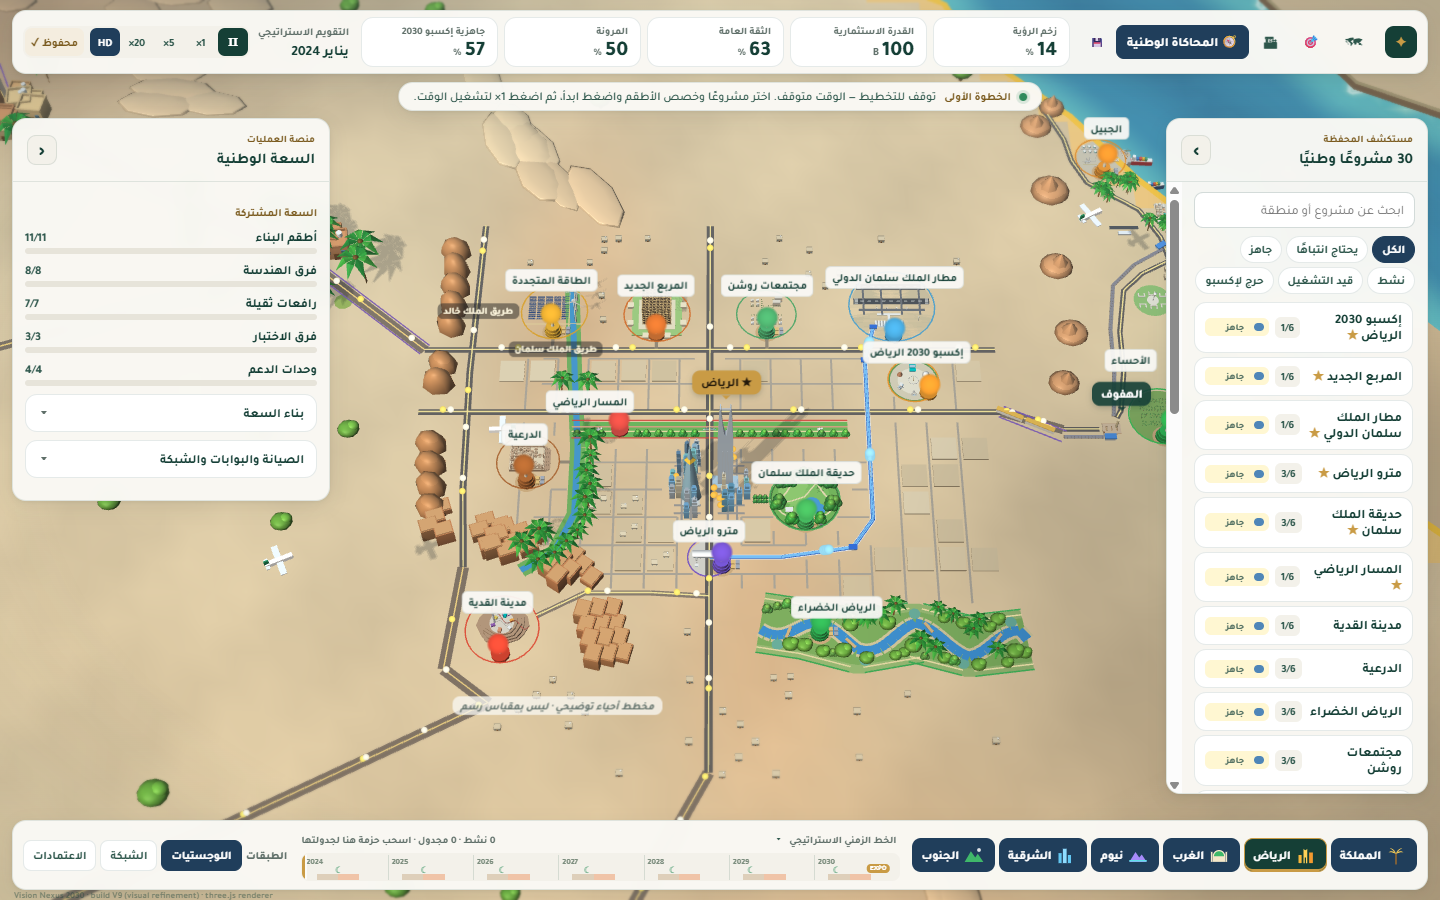
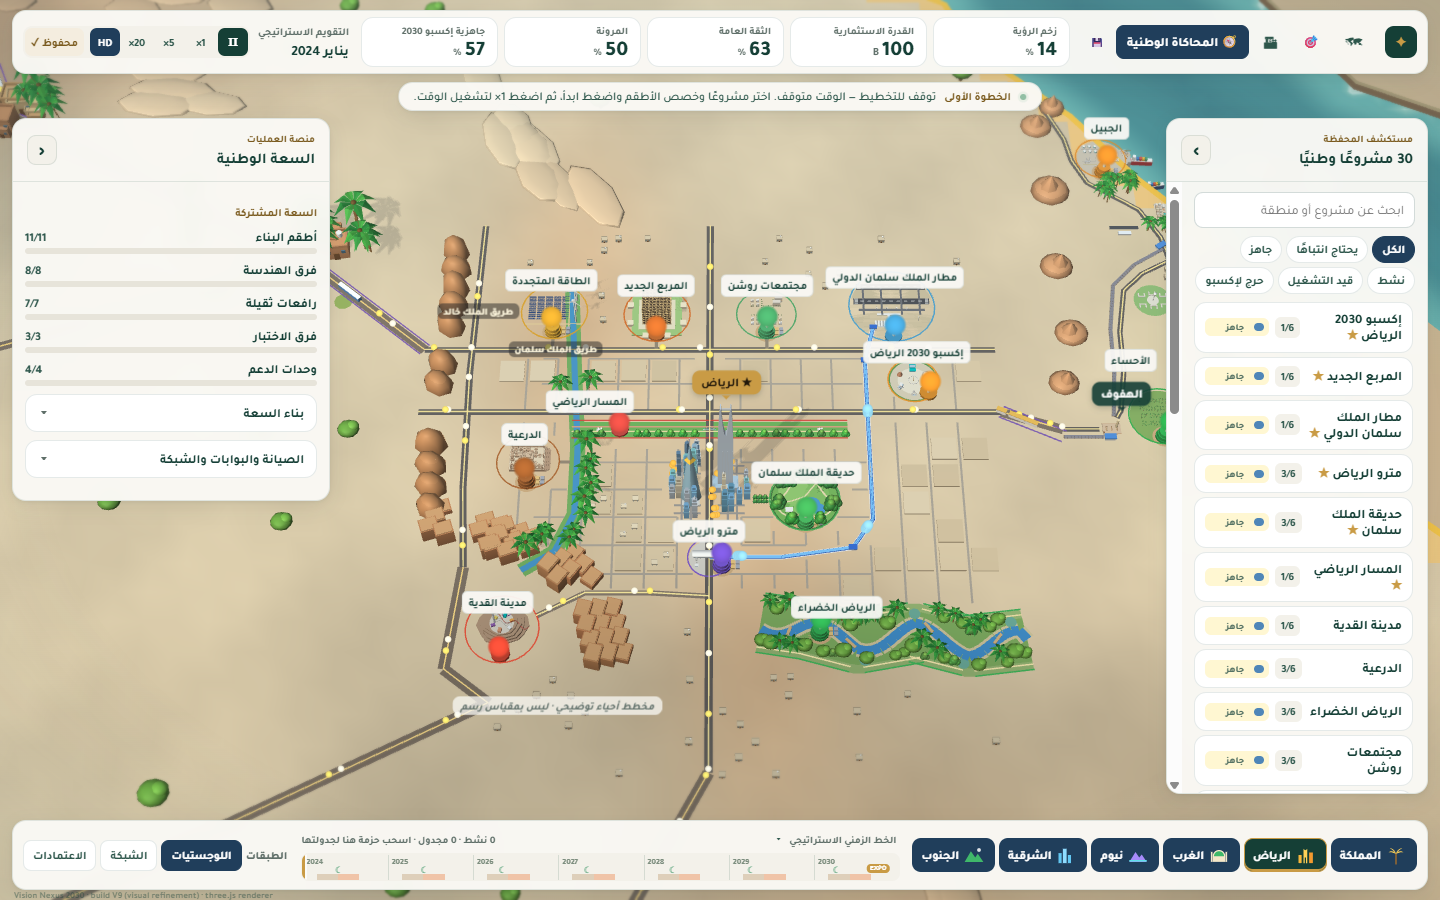
Visual refinement phase 2: softer light, calm teal water, footprint selection
- Softer daylight: more sky fill, lifted shadows, broader fainter highlights, muted sand and saturation
- Calm teal water with gentler glints and foam; night mode unchanged in readability
- Selection: gold footprint outline with corner brackets (no glow, no dimming)
- Declutter: decorative flights only in the Kingdom overview; tall props never cover a road or the wadi
- Measure cards back to the original 92px width so the results panel no longer covers them
- README: V9 section, measured frame rates, deferred future work; refreshed after/compare screenshots

diff --git a/engine.js b/engine.js
@@ -123,7 +123,7 @@
     float cloudShade(vec2 p, float tm){ float n=sin(p.x*.8+tm*.035)*sin(p.y*1.05-tm*.025)+.6*sin(p.x*.43-p.y*.57+tm*.02); return 1.0-.30*smoothstep(.55,1.15,n); }
     vec3 applyAtmos(vec3 c, float w){
       float f=clamp((w-uDist*.95)/(uDist*1.7),0.,1.);
-      vec3 sky=mix(mix(vec3(.64,.86,.96),vec3(.10,.14,.30),uNight),uTint,uStorm*.75);
+      vec3 sky=mix(mix(vec3(.68,.85,.92),vec3(.10,.14,.30),uNight),uTint,uStorm*.75);
       c=mix(c,sky,f*.6); c=mix(c,uTint*.9,uStorm*.34); return c; }`;
   const INST_ATTR = 'attribute mat4 instanceMatrix; attribute vec3 instanceColor; attribute float aTintK;';
   const WPOS = inst => inst ? '(instanceMatrix*vec4(position,1.0)).xyz' : 'position';
@@ -152,14 +152,14 @@
     void main(){
       vec3 N=normalize(vNormal); vec3 V=normalize(uEye-vWorld); if(dot(N,V)<0.0) N=-N;
       float ndl=max(dot(N,uSun),0.0); float sh=mix(1.0, shadowAt(ndl), 1.0-uStorm*.6);
-      vec3 hemi=mix(vec3(.62,.55,.48), vec3(.74,.80,.88), N.y*0.5+0.5);
-      float ao = N.y>0.8 ? 1.0 : mix(0.70,1.0,clamp((vWorld.y-uGround)/0.06,0.0,1.0));
-      vec3 sunCol=vec3(1.0,.96,.88);
+      vec3 hemi=mix(vec3(.66,.60,.53), vec3(.76,.81,.86), N.y*0.5+0.5);
+      float ao = N.y>0.8 ? 1.0 : mix(0.76,1.0,clamp((vWorld.y-uGround)/0.06,0.0,1.0));
+      vec3 sunCol=vec3(1.0,.97,.91);
       float cl=uGlow>0.3?1.0:cloudShade(vWorld.xz,uTime);
-      vec3 c=vColor*(hemi*(0.62+uGlow)*ao + sunCol*ndl*mix(0.55,1.0,sh)*0.64*cl);   // shadows lifted: soft ambient shade, not black
-      vec3 H=normalize(uSun+V); c+=sunCol*pow(max(dot(N,H),0.0),40.0)*0.10*sh;
-      c+=vec3(1.0,.85,.6)*pow(1.0-max(dot(N,V),0.0),3.0)*0.08;           // warm rim light
-      float l=dot(c,vec3(.299,.587,.114)); c=mix(vec3(l),c,1.02);           // natural saturation
+      vec3 c=vColor*(hemi*(0.66+uGlow)*ao + sunCol*ndl*mix(0.68,1.0,sh)*0.58*cl);   // V9: softer daylight — same overall brightness, shadows lifted further
+      vec3 H=normalize(uSun+V); c+=sunCol*pow(max(dot(N,H),0.0),28.0)*0.06*sh;   // broader, fainter highlight (rougher surfaces)
+      c+=vec3(1.0,.85,.6)*pow(1.0-max(dot(N,V),0.0),3.0)*0.06;           // warm rim light
+      float l=dot(c,vec3(.299,.587,.114)); c=mix(vec3(l),c,0.97);           // muted, natural saturation
       c=mix(c, c*vec3(.26,.32,.58)+vec3(.012,.018,.05)+vColor*uGlow*.6, uNight);   // dusk to night
       gl_FragColor=vec4(applyAtmos(c,vW),1.0);
     }`;
@@ -182,16 +182,16 @@
       float w1=sin(vWorld.x*11.0+t*1.2)*sin(vWorld.z*9.0-t*0.9);
       float w2=(sin((vWorld.x-vWorld.z)*29.0+t*2.1)*0.5+sin((vWorld.x+vWorld.z*1.3)*41.0-t*2.6)*0.35)*fade;
       vec3 N=normalize(vec3((w1+w2)*0.07,1.0,(w1-w2)*0.06));
-      vec3 reef=vec3(.62,.86,.80), shallow=vec3(.38,.74,.76), mid=vec3(.24,.55,.68), deep=vec3(.17,.40,.56);
+      vec3 reef=vec3(.64,.84,.78), shallow=vec3(.42,.72,.70), mid=vec3(.28,.56,.58), deep=vec3(.20,.43,.48);   // V9: calm teal
       vec3 c=mix(reef,shallow,smoothstep(0.0,0.05,s)); c=mix(c,mid,smoothstep(0.05,0.22,s)); c=mix(c,deep,smoothstep(0.22,0.75,s));
       c*=0.96+0.06*w1*fade;
       float band=0.012+0.008*sin(t*1.6+vWorld.x*14.0+vWorld.z*9.0);
       float foam=smoothstep(0.012,0.0,abs(s-band))+smoothstep(0.008,0.0,s)*0.6;
-      c=mix(c,vec3(.96,.97,.95),clamp(foam,0.0,1.0)*0.55);
+      c=mix(c,vec3(.96,.97,.95),clamp(foam,0.0,1.0)*0.45);
       vec3 V=normalize(uEye-vWorld); vec3 H=normalize(uSun+V);
-      float spec=pow(max(dot(N,H),0.0),90.0)*fade; c+=vec3(1.0,.97,.88)*spec*0.8*(1.0-uStorm);
+      float spec=pow(max(dot(N,H),0.0),90.0)*fade; c+=vec3(1.0,.97,.88)*spec*0.55*(1.0-uStorm);
       c*=mix(0.88,1.0,(cloudShade(vWorld.xz,t)-0.70)/0.30);
-      float fres=pow(1.0-max(dot(N,V),0.0),4.0); c=mix(c,vec3(.75,.90,1.0),fres*0.25);
+      float fres=pow(1.0-max(dot(N,V),0.0),4.0); c=mix(c,vec3(.78,.90,.92),fres*0.2);
       c=mix(c, c*vec3(.22,.30,.55)+vec3(.0,.02,.06), uNight);
       gl_FragColor=vec4(applyAtmos(c,vW),1.0);
     }`;
@@ -285,6 +285,10 @@
     addTri(a,b,r1,col);addTri(d0,r2,c,col);addQuad(a,r1,r2,d0,col);addQuad(b,c,r2,r1,col);
   }
   function addLine(a,b,col){lineTarget.p.push(...a,...b);lineTarget.c.push(...col,...col);}
+  // V9 palette for world-space cues (mirrors styles.css: --gold selection, white hover).
+  const PALETTE = {sel:[.88,.69,.32], selHi:[1,.90,.58], hover:[1,1,1]};
+  function addArc(cx,cy,cz,r,a0,a1,col,seg=8){for(let i=0;i<seg;i++){const a=a0+(a1-a0)*i/seg,b=a0+(a1-a0)*(i+1)/seg;addLine([cx+Math.cos(a)*r,cy,cz+Math.sin(a)*r],[cx+Math.cos(b)*r,cy,cz+Math.sin(b)*r],col);}}
+  function addBrackets(cx,cy,cz,r,col){for(let k=0;k<4;k++){const m=Math.PI/4+k*Math.PI/2;addArc(cx,cy,cz,r,m-.26,m+.26,col);addArc(cx,cy+.001,cz,r+.003,m-.26,m+.26,col);}}
   function addRing(cx,cy,cz,r,col,seg=32){for(let i=0;i<seg;i++){const a=i/seg*Math.PI*2,b=(i+1)/seg*Math.PI*2;addLine([cx+Math.cos(a)*r,cy,cz+Math.sin(a)*r],[cx+Math.cos(b)*r,cy,cz+Math.sin(b)*r],col);}}
   function addStrip(a,b,w,y,col){
     const dx=b[0]-a[0],dz=b[1]-a[1],l=Math.hypot(dx,dz)||1,nx=-dz/l*w,nz=dx/l*w,up=[0,1,0];
@@ -419,7 +423,7 @@
   ];
   function landColor(x, z) {
     const [lon, lat] = ungeo(x, z);
-    let c = [.90,.80,.64];
+    let c = [.89,.81,.67];   // V9: muted sand (styles.css --sand)
     for (const [bl, bt, rl, rt, col, w] of blobs) {
       const d = ((lon-bl)/rl)**2 + ((lat-bt)/rt)**2;
       if (d < 6) c = mix(c, col, w*Math.exp(-d));
@@ -1452,7 +1456,8 @@
     }});
     railPaths.forEach((path,r)=>{const L=railL[r];for(let k=0;k<2;k++){const q0=((t*.00005)/L[L.length-1]*4+k*.5+r*.17)%1;
       for(let c=0;c<4;c++){const q=Math.max(.001,q0-c*.0065*(3/L[L.length-1])),[x,z,rot]=heading(path,L,q,true); inst(r===0?'car0':'car1', x, 0, z, rot, 1);}}});
-    flights.forEach(([a,b],i)=>{const q=((t*.00002*(1+i*.13))+i*.21)%1, f=i%2?q:1-q, A=i%2?a:b, B=i%2?b:a;
+    if (camera.dist >= DETAIL_DIST) flights.forEach(([a,b],i)=>{   // V9: decorative flights only in the overview — in close views they crossed downtown towers and labels
+      const q=((t*.00002*(1+i*.13))+i*.21)%1, f=i%2?q:1-q, A=i%2?a:b, B=i%2?b:a;
       const x=A.x+(B.x-A.x)*f, z=A.z+(B.z-A.z)*f, y=G+.12+Math.sin(Math.PI*f)*.45, rot=Math.atan2(B.z-A.z,B.x-A.x); inst('plane', x, y, z, rot, 1);});
     for (const cv of convoyList) inst('convoy', cv.x, 0, cv.z, cv.rot, 1, cv.color||[.95,.62,.18]);
     const bladeCol=[.97,.97,.96];
@@ -1673,7 +1678,7 @@
       renderPass('depth'); renderer.render(scene3, cam3);
     }
     // 2) Scene: sky clear, sea, meshes, lines, points
-    const sky=[(.60+storm*.18)*(1-night)+.07*night,(.84-storm*.28)*(1-night)+.10*night,(.95-storm*.45)*(1-night)+.22*night];
+    const sky=[(.64+storm*.14)*(1-night)+.07*night,(.83-storm*.27)*(1-night)+.10*night,(.91-storm*.41)*(1-night)+.22*night];
     renderer.setRenderTarget(null); renderer.setClearColor(clearCol.setRGB(sky[0],sky[1],sky[2]), 1); renderer.clear();
     POINT_MAT.uniforms.uScale.value=dpr;
     buildDynLines(t); syncLines(dynLinesObj, dynLines);
@@ -1686,7 +1691,7 @@
   function buildDynLines(t){
     dynLines.p.length=dynLines.c.length=0; lineTarget=dynLines;
     if (selectable || selectedId) { const sp=selectedId&&P(selectedId), hp=hoverId&&hoverId!==selectedId&&P(hoverId);
-      if (sp) { if (sp.ribbon) { ribbonEdges(sp,.006,G+.014,[1,.86,.3]); ribbonEdges(sp,.012,G+.016,[1,.95,.6]); } else { addRing(sp.x,G+.014,sp.z,sp.foot+.006,[1,.86,.3],40); addRing(sp.x,G+.016,sp.z,sp.foot+.012,[1,.95,.6],40); } }
+      if (sp) { if (sp.ribbon) { ribbonEdges(sp,.006,G+.014,PALETTE.sel); ribbonEdges(sp,.009,G+.015,PALETTE.sel); } else { addRing(sp.x,G+.014,sp.z,sp.foot+.006,PALETTE.sel,48); addBrackets(sp.x,G+.016,sp.z,sp.foot+.018,PALETTE.selHi); } }
       if (hp) { if (hp.ribbon) ribbonEdges(hp,.006,G+.014,[1,1,1]); else addRing(hp.x,G+.014,hp.z,hp.foot+.006,[1,1,1],40); }
       if (hoverId===CORE_ID) { const c=LY.RIYADH_CORE; addRing(c.x,G+.014,c.z,c.r+.006,[1,1,1],40); }
       if (hoverId && LY.places && LY.places[hoverId]) { const q=LY.places[hoverId]; addRing(q.x,G+.014,q.z,q.r+.006,[1,1,1],40); } }

diff --git a/styles.css b/styles.css
@@ -938,8 +938,8 @@ html,body{background:#d9e4e0}
 .kpi strong{font-size:21px;font-variant-numeric:tabular-nums}
 .kpi .trend.none{display:none}
 .kpi .trend{font-size:10px;margin-inline-start:3px}.trend.up{color:var(--green)}.trend.down{color:var(--red)}.trend.flat{color:#9AA59F}
-.mmeasures{display:grid;grid-auto-flow:column;grid-auto-columns:104px;gap:6px}
-.mchip{width:104px;min-width:0;min-height:50px;border-radius:var(--r-card);padding:6px 11px}
+.mmeasures{display:grid;grid-auto-flow:column;grid-auto-columns:92px;gap:6px}
+.mchip{width:92px;min-width:0;min-height:50px;border-radius:var(--r-card);padding:6px 10px}
 .mchip b{font-variant-numeric:tabular-nums}
 .ct-stat b,.cap-n,.pk{font-variant-numeric:tabular-nums}
 

diff --git a/layout.js b/layout.js
@@ -180,6 +180,7 @@
     for (const c of cores) if (Math.hypot(x - c.x, z - c.z) < c.r + margin * .5) return false;
     for (const p of Object.values(places)) if (Math.hypot(x - p.x, z - p.z) < p.r + margin) return false;
     if (polyDist(x, z, METRO_ROUTE) < .02 + margin * .5 || polyDist(x, z, WADI) < .03) return false;
+    if (tall && (roadDist(x, z - .035) < roadClear || polyDist(x, z - .035, WADI) < .02)) return false;   // V9: its crown would cover a road or the wadi on screen (camera looks north)
     return roadDist(x, z) >= roadClear;
   }
   const insideCore = (name, x, z) => { const c = cores.find(c => c.name === name); return !!c && Math.hypot(x - c.x, z - c.z) < c.r; };

diff --git a/README.md b/README.md
@@ -1,4 +1,4 @@
-# Vision Nexus 2030 — The Kingdom in Motion (build V7 — City Missions)
+# Vision Nexus 2030 — The Kingdom in Motion (build V9 — visual refinement)
 
 The build label is shown in the bottom corner of the screen. If you see a "Strategic Actions" panel, "Path to 2030" or a calendar past 2030, you are running an older copy of the files.
 
@@ -16,6 +16,16 @@ The 3D world is drawn by **three.js** (vendored in `vendor/three`). The upgrade 
 - **Phase 1 — renderer swap with parity (done):** `engine.js` now renders through three.js with the original shaders and geometry; the `VisionWorld` API is unchanged. Repeated props and vehicles use InstancedMesh. Picking and City Builder tools behave exactly as before. See `docs/phase1/NOTES.md`.
 - The original renderer stays available as `engine_classic.js` (`index.html?renderer=classic`).
 - Third-party files and licences: `ASSETS_CREDITS.md`.
+
+## Visual refinement (build V9)
+A styling pass on the three.js build. Rules, missions, calculations, data, saves, controls, maps and building models are unchanged. Before/after screenshots (same camera, state and seeded randomness, 1440×900, High quality) are in `docs/style-before/`, `docs/style-after/` and side by side in `docs/style-compare/`.
+- **Interface:** one palette shared by the HUD and the 3D cues (panels `#FAF9F5`, text and primary actions `#153F36`, selection and objectives `#C99B45`, navigation `#203E5B`), 12–14px card corners, one Arabic-compatible font (Tajawal). Equal KPI and measure cards; a change arrow appears only once there is an earlier month to compare with. Collapsed side panels keep a labelled tab to reopen them. Mission and City Builder tools show their real cost (a range when it depends on the place chosen) and distinct available / selected / unavailable / locked states. Selection is gold, warnings terracotta, errors red.
+- **Labels:** the selected object's label is placed first; sea, country and road names give way to landmarks; nothing is smaller than 11px. Riyadh and Eastern Province district names now appear in Arabic in mission mode.
+- **World:** softer daylight (more sky fill, lifted shadows, broader and fainter highlights, slightly muted colour), muted sand, and calm teal water with gentler glints. Night mode is unchanged in readability. No extra render passes, SSAO or HDRI.
+- **Selection:** a gold outline on the footprint with four corner brackets (ribbons get a gold edge). No building glow and no scene dimming.
+- **Decluttering:** decorative flights are drawn only in the Kingdom overview (in close views they crossed downtown towers and labels), and tall palms or trees are not placed where their crown would cover a road or the wadi from the default camera.
+- **Performance:** measured with a 5-second frame count per quality level (1440×900, Intel integrated GPU via Direct3D 11, vsync off), two alternating runs per build. V8 → V9, Kingdom view: High 31.9–32.0 → 30.3–32.2 fps, Medium 43.9–45.2 → 42.6–44.9, Reduced 43.3–43.4 → 41.8–44.6. Riyadh close-up: High 32.8–33.6 → 32.1–33.4, Medium 42.2–43.4 → 42.1–42.2, Reduced 42.7–43.7 → 41.8–43.1. The differences are within run-to-run variation; no regression was measured.
+- **Possible future work (not done here):** authored models replacing procedural ones, proportion and bevel passes, converting the remaining merged props to InstancedMesh, ambient occlusion and contact shadows, a custom icon set in place of emoji, and a City Builder toolbar that fits 1440px without scrolling.
 
 ## Play first
 **Mission 1 — Connect for the Opening.** Choose **Bus rapid transit**, tap *City Centre ↔ Expo 2030 site*, then **Add to plan**. Add *City Centre ↔ King Salman Airport* the same way, then press **End turn**. You will see the transformation moment. Finish the mission to see the victory moment.
